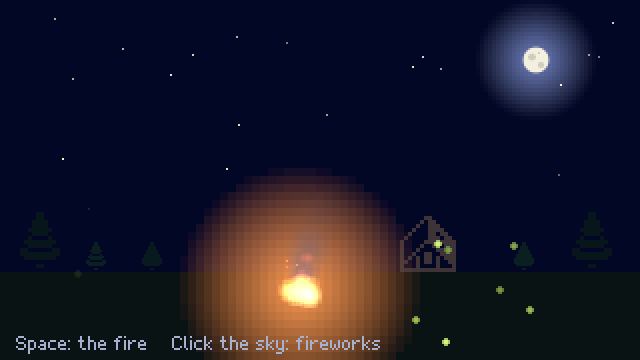
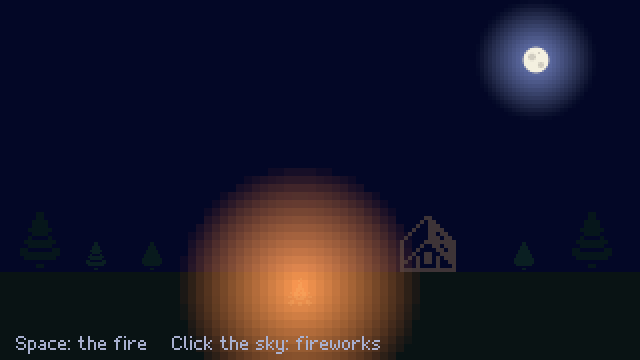
Compare the bonfire's start without its particles, which GPUs blend apart
WARP and lavapipe round blending a little differently, and where the
fire's flames stack dozens of additive layers that grows to 3 to 12 off
in about 600 pixels. The Luau test now hides the particles nodes, which
still burn so the glow keeps its brightness, and the frame matches on
WARP, lavapipe and a real GPU.

CI also uploads the examples' .test-output folders on failure, since
Luau tests' screenshot failures point there.

diff --git a/AGENTS.md b/AGENTS.md
@@ -400,7 +400,8 @@ per-channel difference of 2 so references pass on any GPU. Add a test there when
 feature.
 
 - A mismatch writes the rendered frame and a diff (mismatched pixels in magenta) to
-  `target/tmp/screenshots/`; CI uploads them as an artifact.
+  `target/tmp/screenshots/`; CI uploads them, and the examples' `.test-output` folders, as an
+  artifact.
 - `UPDATE_SCREENSHOTS=1` creates or rewrites missing or mismatched references. Look at every
   changed PNG before committing it.
 - Where a pixel's middle lands on the edge between two texels, GPUs pick either, so 2D scenes keep
